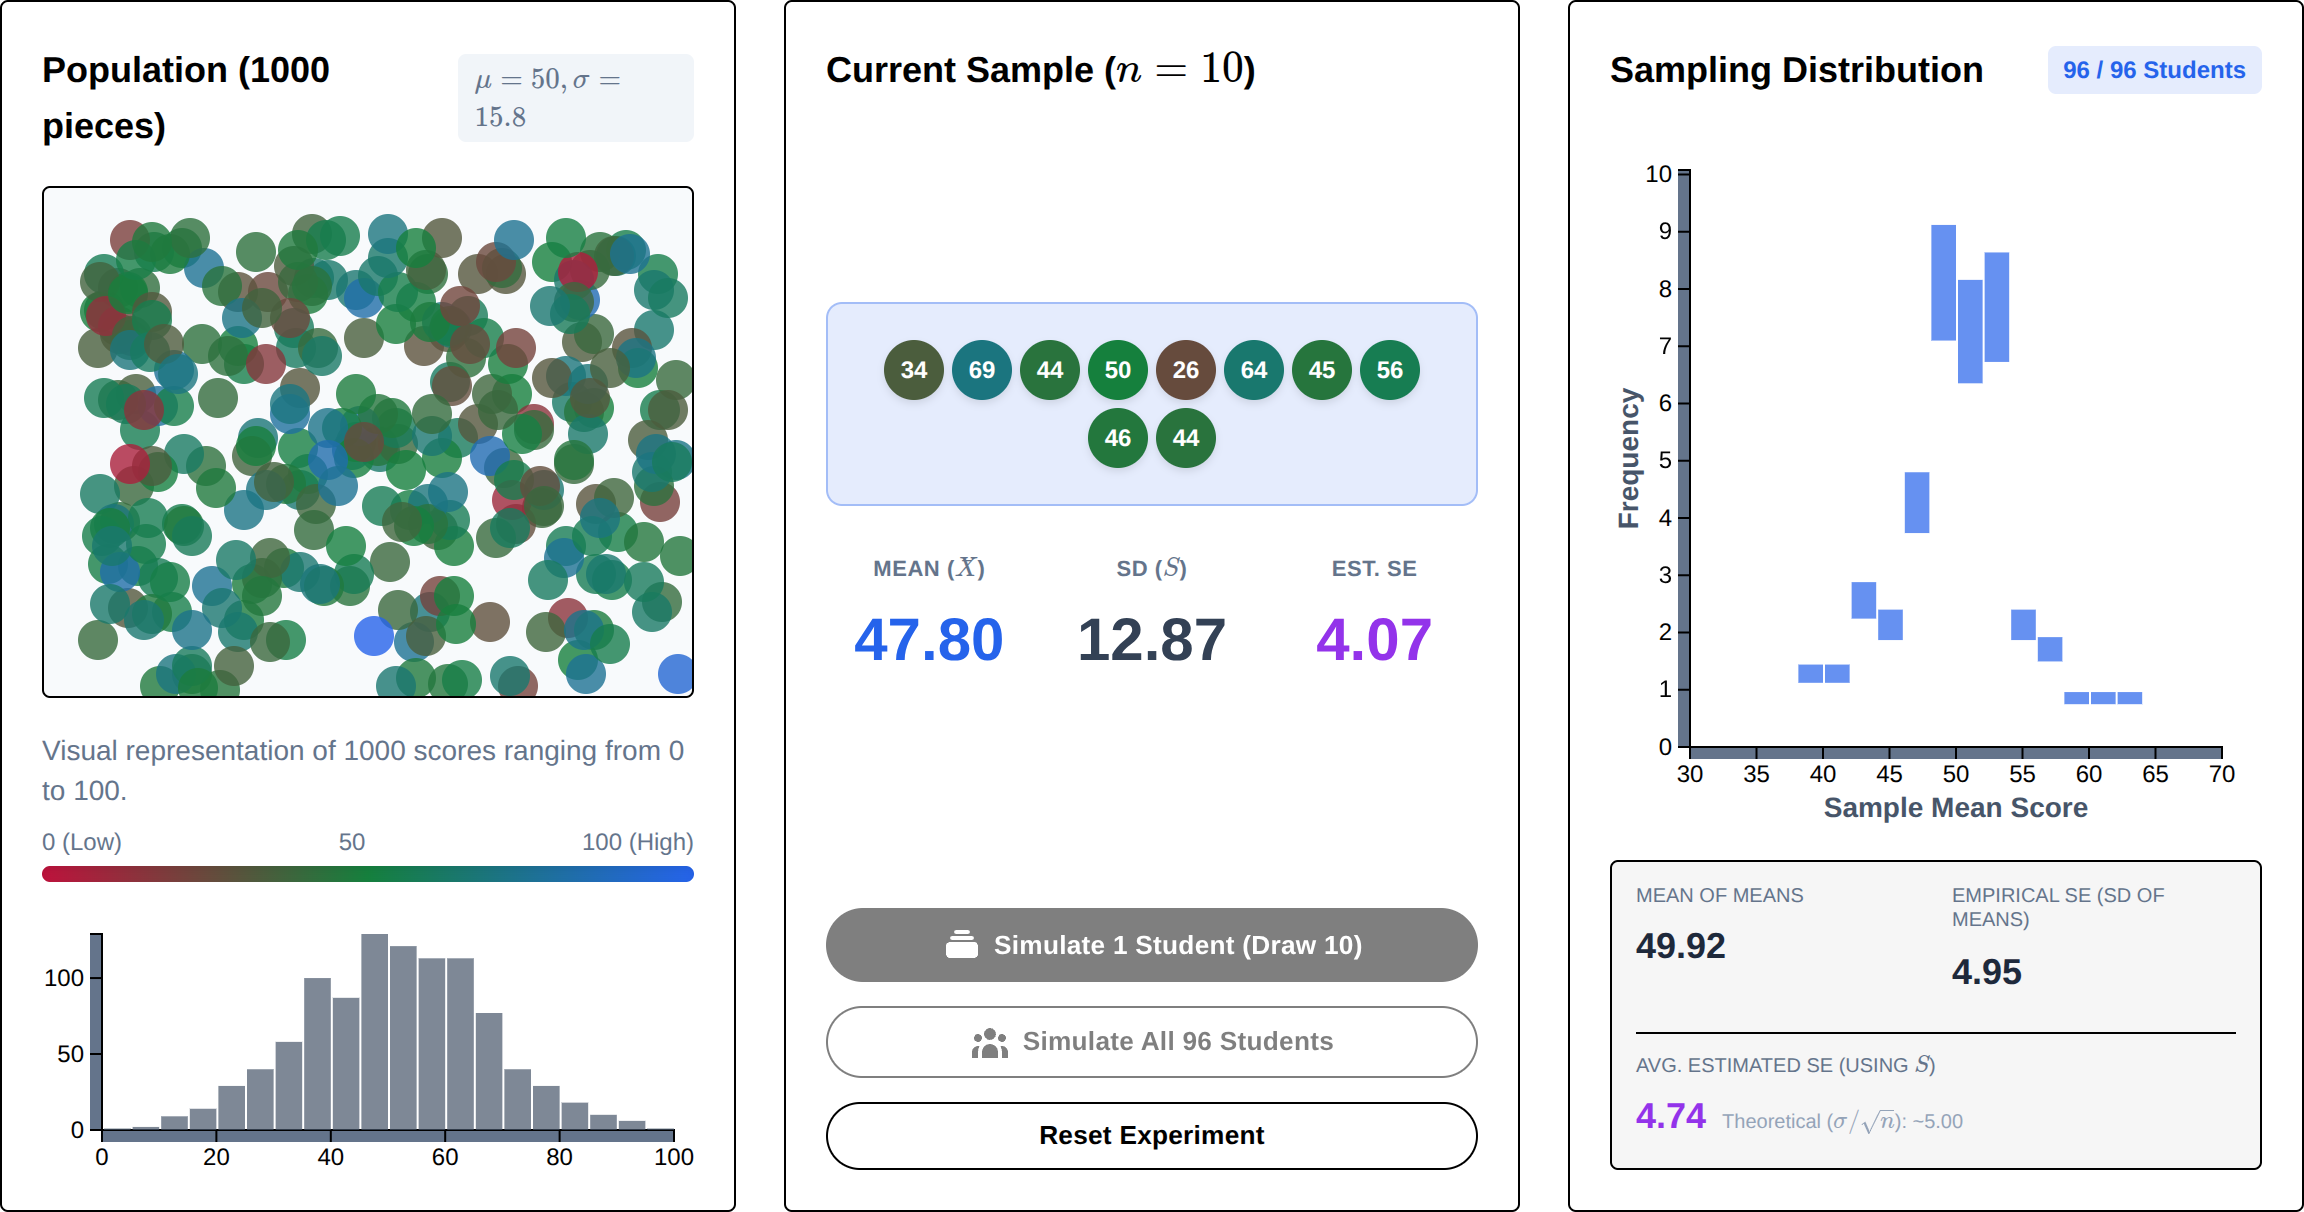
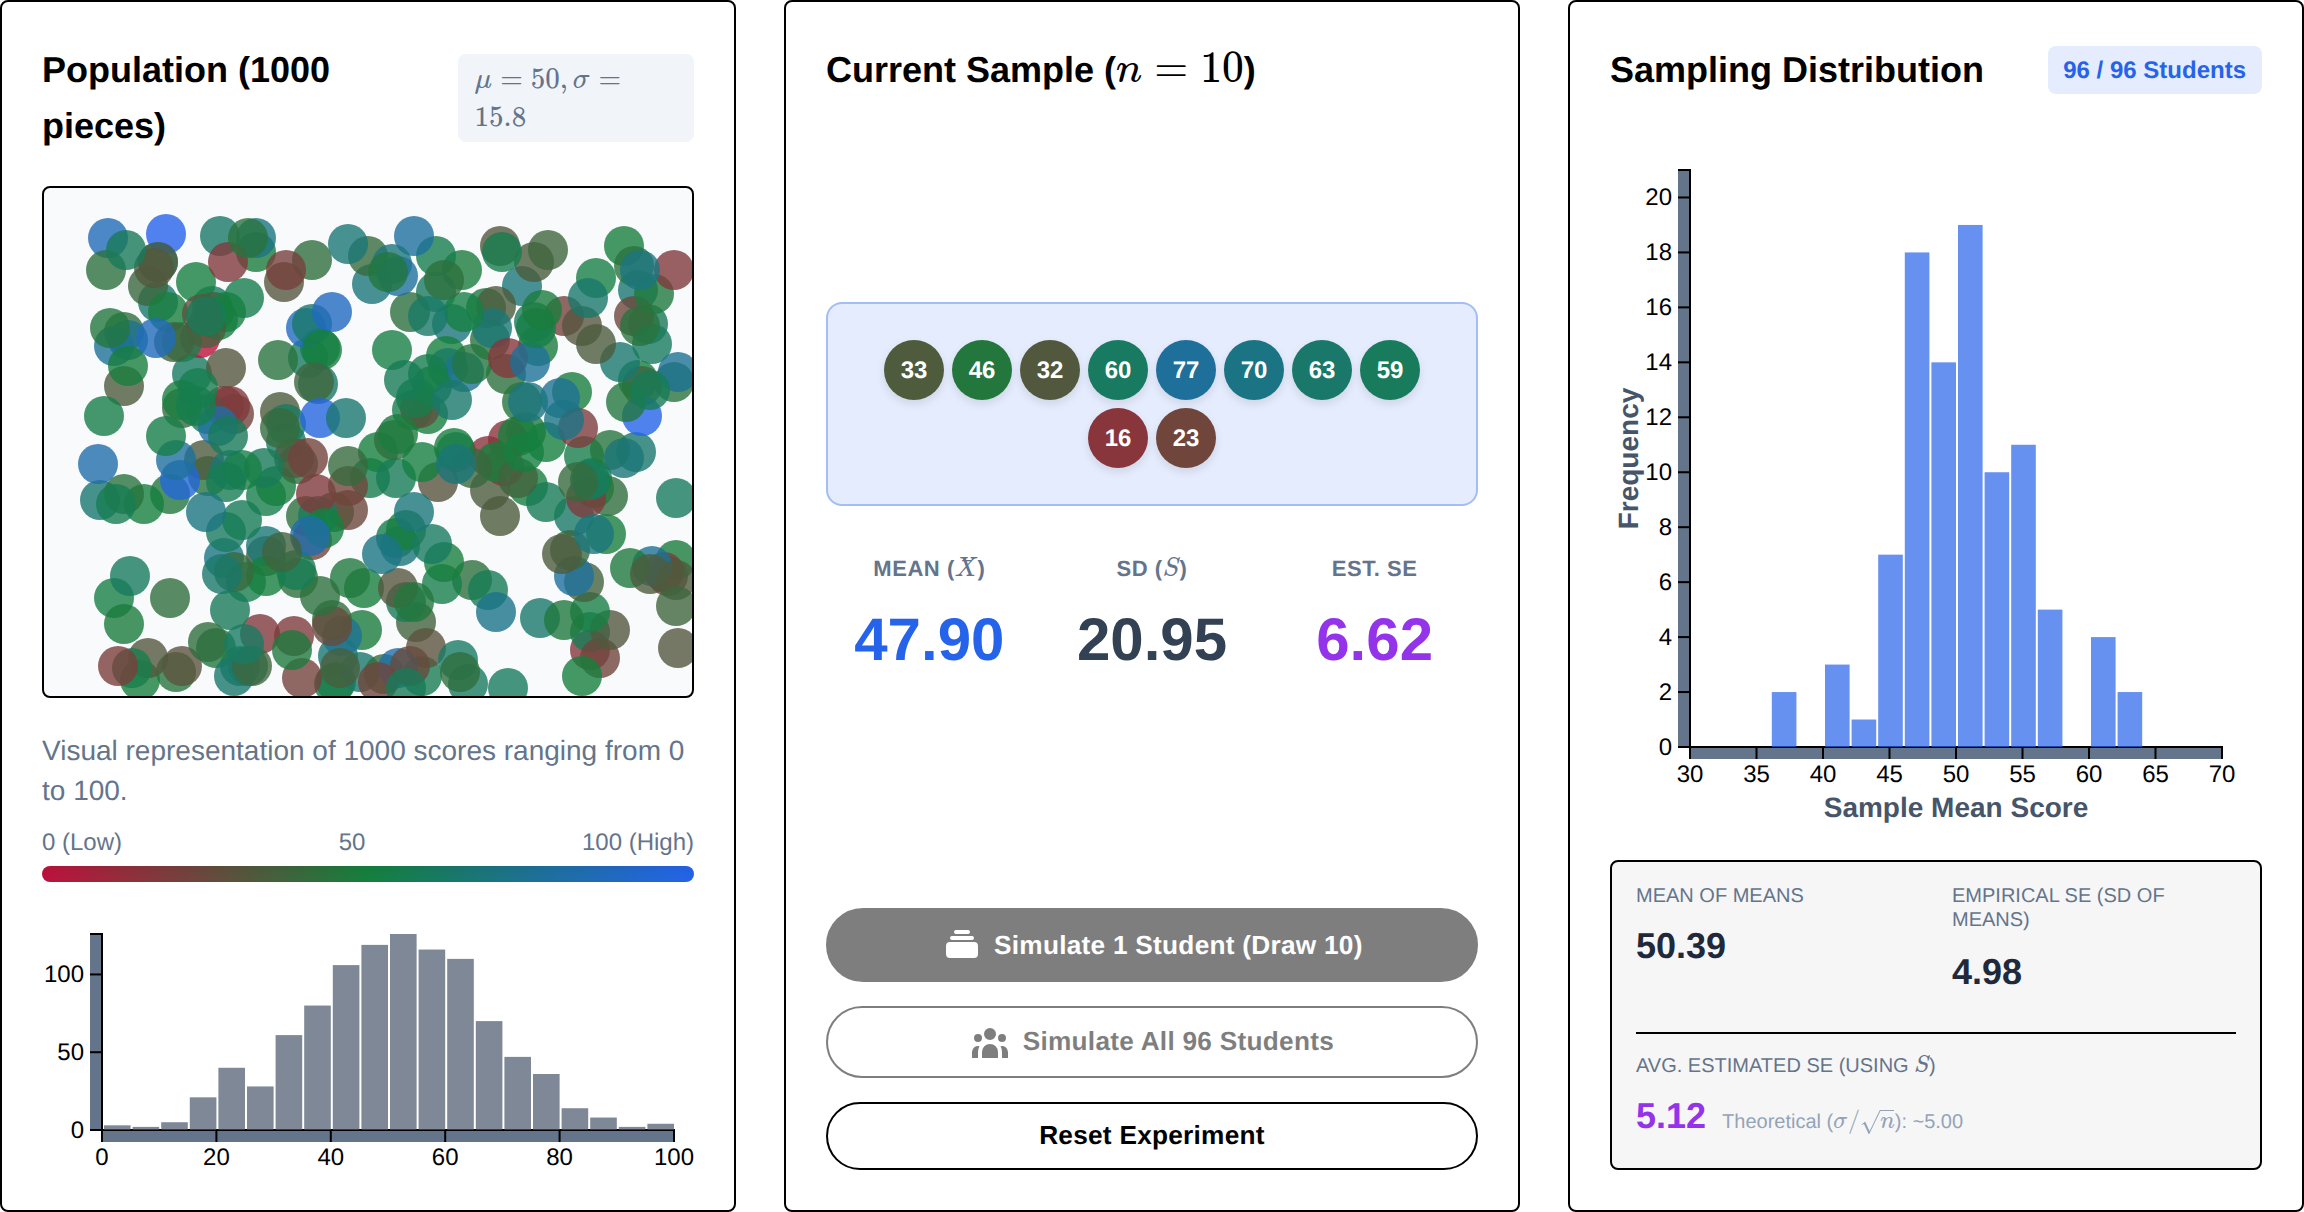
Finish Book view sampling stills and emphasize self-tests (#212)
The independent t, paired t, and Horowitz stills were captured while the histogram scale was still the opening axis. Self-test links are larger and centered, and the contents marker sits farther from the current title.

diff --git a/book/book.css b/book/book.css
@@ -184,6 +184,14 @@ button.book-menu-toggle {
     box-shadow: inset 3px 0 0 #000000;
 }
 
+/* The marker is a 3px inset line. Chapter and section titles only
+   had 0.2rem of padding, so the line sat against the words. Demo
+   links already indent further. */
+.book-menu .book-menu-chapter a[aria-current="page"],
+.book-menu a.book-section-link[aria-current="true"] {
+    padding-left: 0.75rem;
+}
+
 .book-toc-chapter:not(.is-current) .book-menu-chapter {
     margin-bottom: 0;
 }
@@ -336,21 +344,24 @@ button.book-menu-toggle {
 a.book-selftest {
     -webkit-appearance: none;
     appearance: none;
+    position: relative;
     display: flex;
     align-items: center;
-    justify-content: space-between;
+    justify-content: center;
     gap: 0.75rem;
     box-sizing: border-box;
     width: 100%;
     min-height: 44px;
     margin: 1.6rem 0 0;
-    padding: 0.55rem 0.85rem;
+    padding: 0.65rem 2.4rem;
     border: 1px solid #000000;
     border-radius: 0 !important;
     background: #ffffff;
     color: #000000;
+    font-size: 1.35rem;
     font-weight: bold;
     line-height: 1.3;
+    text-align: center;
     text-decoration: none;
     scroll-margin-top: 1rem;
     touch-action: manipulation;
@@ -388,8 +399,15 @@ a.book-selftest:focus-visible {
 .book-selftest-label {
     display: flex;
     align-items: center;
+    justify-content: center;
     gap: 0.45rem;
     min-width: 0;
+    text-align: center;
+}
+
+a.book-selftest > .book-still-arrow {
+    position: absolute;
+    right: 0.85rem;
 }
 
 .book-selftest-mark {

diff --git a/book/chapter-3.html b/book/chapter-3.html
@@ -121,7 +121,7 @@
 <div class="book-figure">
 <button type="button" class="book-still" data-demo="../statistics/independent_t_test_simulation.html">
 <span class="book-still-media">
-<img src="stills/independent-t.png" width="2560" height="1094" alt="">
+<img src="stills/independent-t.png" width="2560" height="1092" alt="">
 <span class="book-still-open" aria-hidden="true"><svg viewBox="0 0 24 24" width="18" height="18" aria-hidden="true" focusable="false"><path fill="none" stroke="currentColor" stroke-width="2" d="M4 9V4h5M20 9V4h-5M4 15v5h5M20 15v5h-5"/></svg></span>
 </span>
 <span class="book-still-title"><span class="book-still-name">Independent Samples t-Test</span><span class="book-still-arrow" aria-hidden="true"></span></span>
@@ -159,7 +159,7 @@
 <div class="book-figure">
 <button type="button" class="book-still" data-demo="../statistics/paired_t_test_simulation.html">
 <span class="book-still-media">
-<img src="stills/paired-t.png" width="2560" height="1192" alt="">
+<img src="stills/paired-t.png" width="2560" height="1228" alt="">
 <span class="book-still-open" aria-hidden="true"><svg viewBox="0 0 24 24" width="18" height="18" aria-hidden="true" focusable="false"><path fill="none" stroke="currentColor" stroke-width="2" d="M4 9V4h5M20 9V4h-5M4 15v5h5M20 15v5h-5"/></svg></span>
 </span>
 <span class="book-still-title"><span class="book-still-name">Paired Sample t-Test</span><span class="book-still-arrow" aria-hidden="true"></span></span>

diff --git a/CHANGELOG.md b/CHANGELOG.md
@@ -47,6 +47,12 @@ and this project adheres to [Semantic Versioning](https://semver.org/spec/v2.0.0
 
 ### Fixed
 
+- Book view stills for Independent Samples t-Test, Paired Sample t-Test, and the Horowitz sampling demonstration show the sampling histogram after its scale has finished drawing. The citation version is unchanged.
+
+- A Book view Self-test link uses a larger, centered label. The link, the score, and the bookmark are unchanged. The citation version is unchanged.
+
+- On the Book view contents menu, the line that marks the current page sits a little farther from the title. The citation version is unchanged.
+
 - Choosing a Book view topic or section that already has a chapter opens that chapter. A click on Describing data, Probability & sampling, Comparing means, Association, or one of their sections was staying on the playlist: the shell cancelled the link and only changed the address. The click now loads the chapter page, and so does a pasted or reloaded `tracks.html?topic=` or `tracks.html?track=` address for those ids. Book view with no topic and no section still opens the overview. The citation version is unchanged.
 
 - Catalog keeps Fullscreen on a narrow phone. Book view still hides that control under 479px, because Back, Previous, and Next already fill the bar. Catalog has no Previous or Next, so Fullscreen stays beside Back and Teach / Learn when a demonstration is open. A tap uses the browser Fullscreen API when that request succeeds. When a phone tab refuses it, the demonstration fills the screen in the page. Exit, Escape, or Back leaves that view, and Back from the demonstration still returns to the catalog grid. Back, Teach, Learn, Fullscreen, and Exit share one centered line. The citation version is unchanged.
